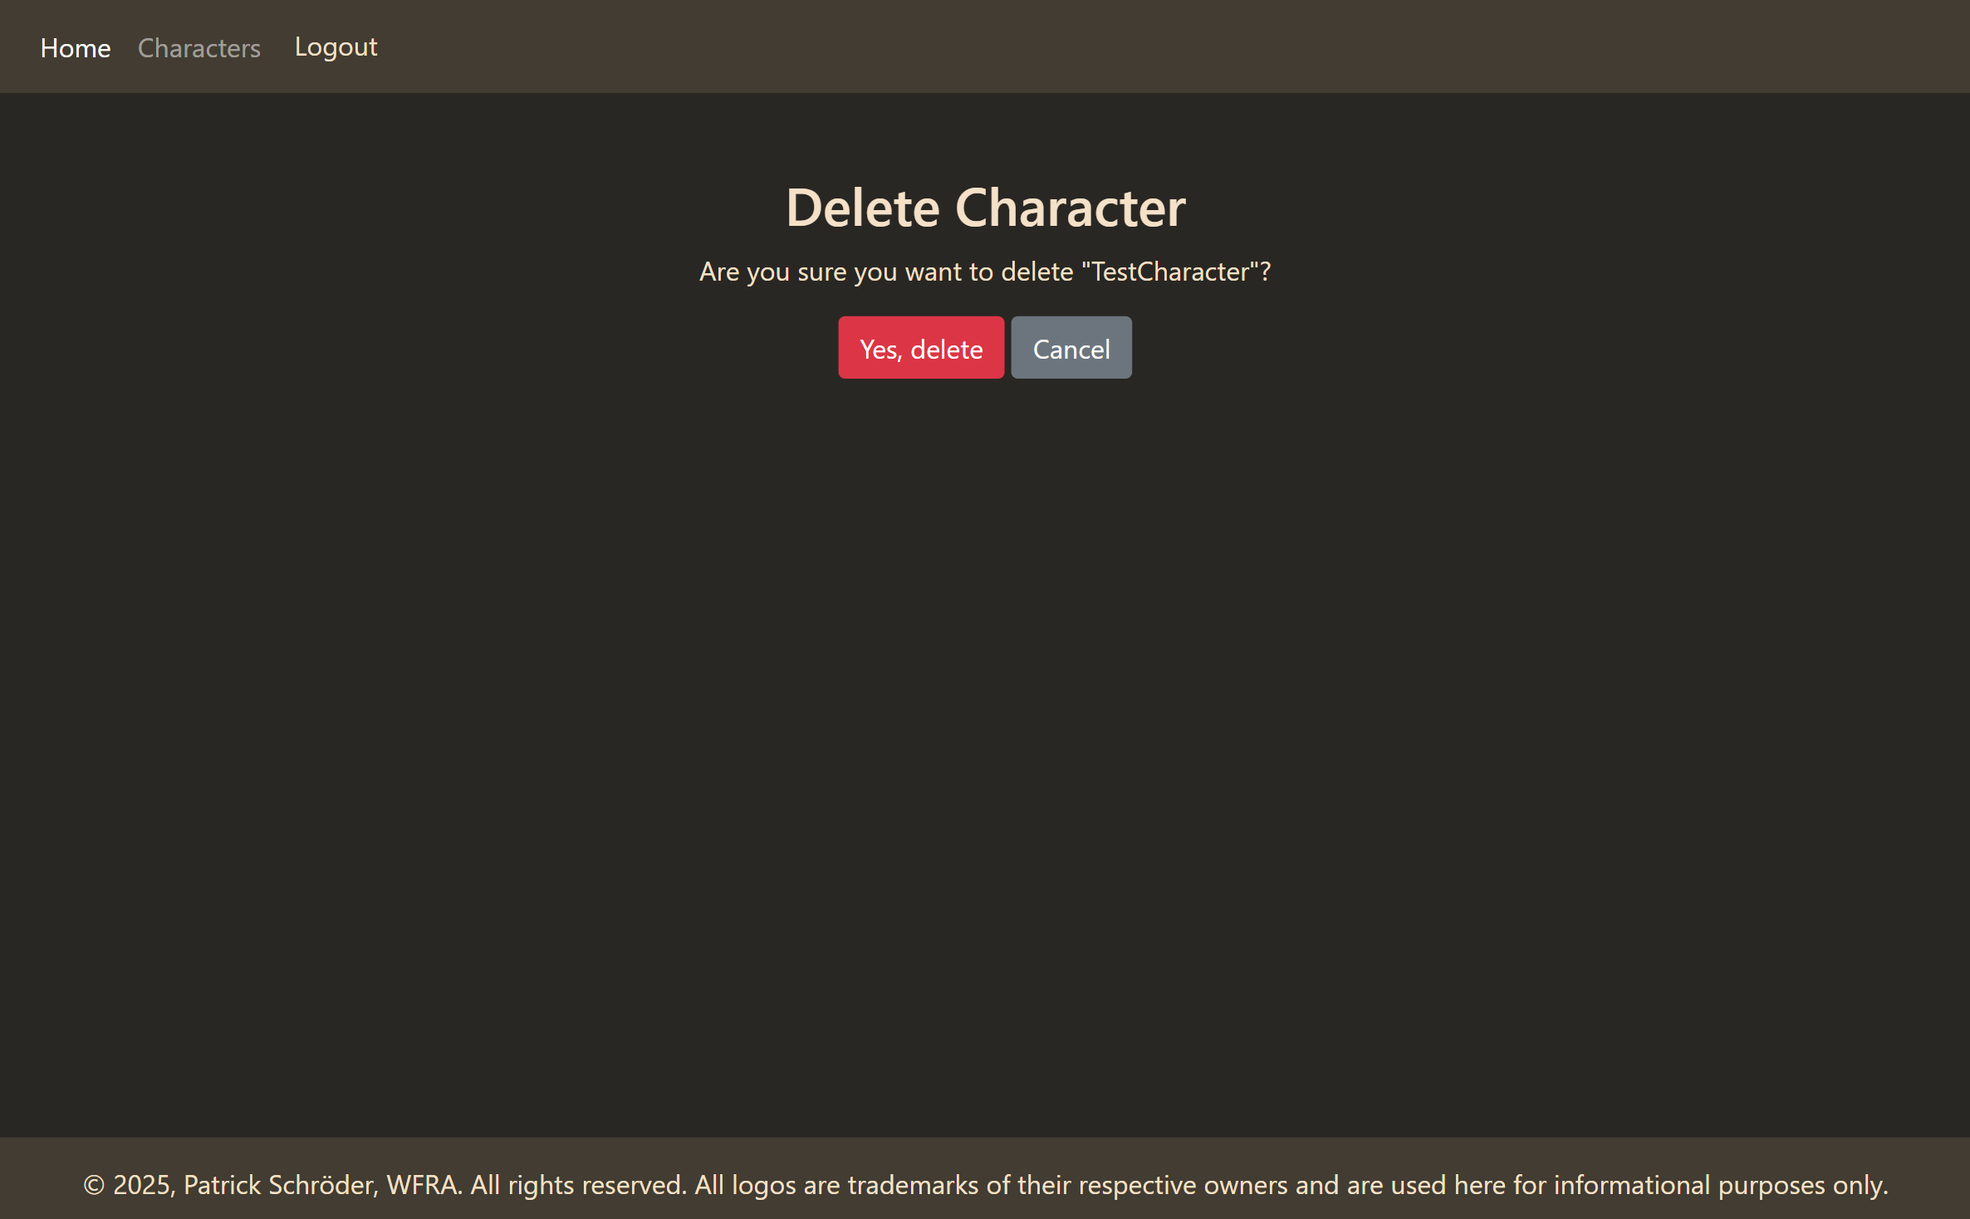
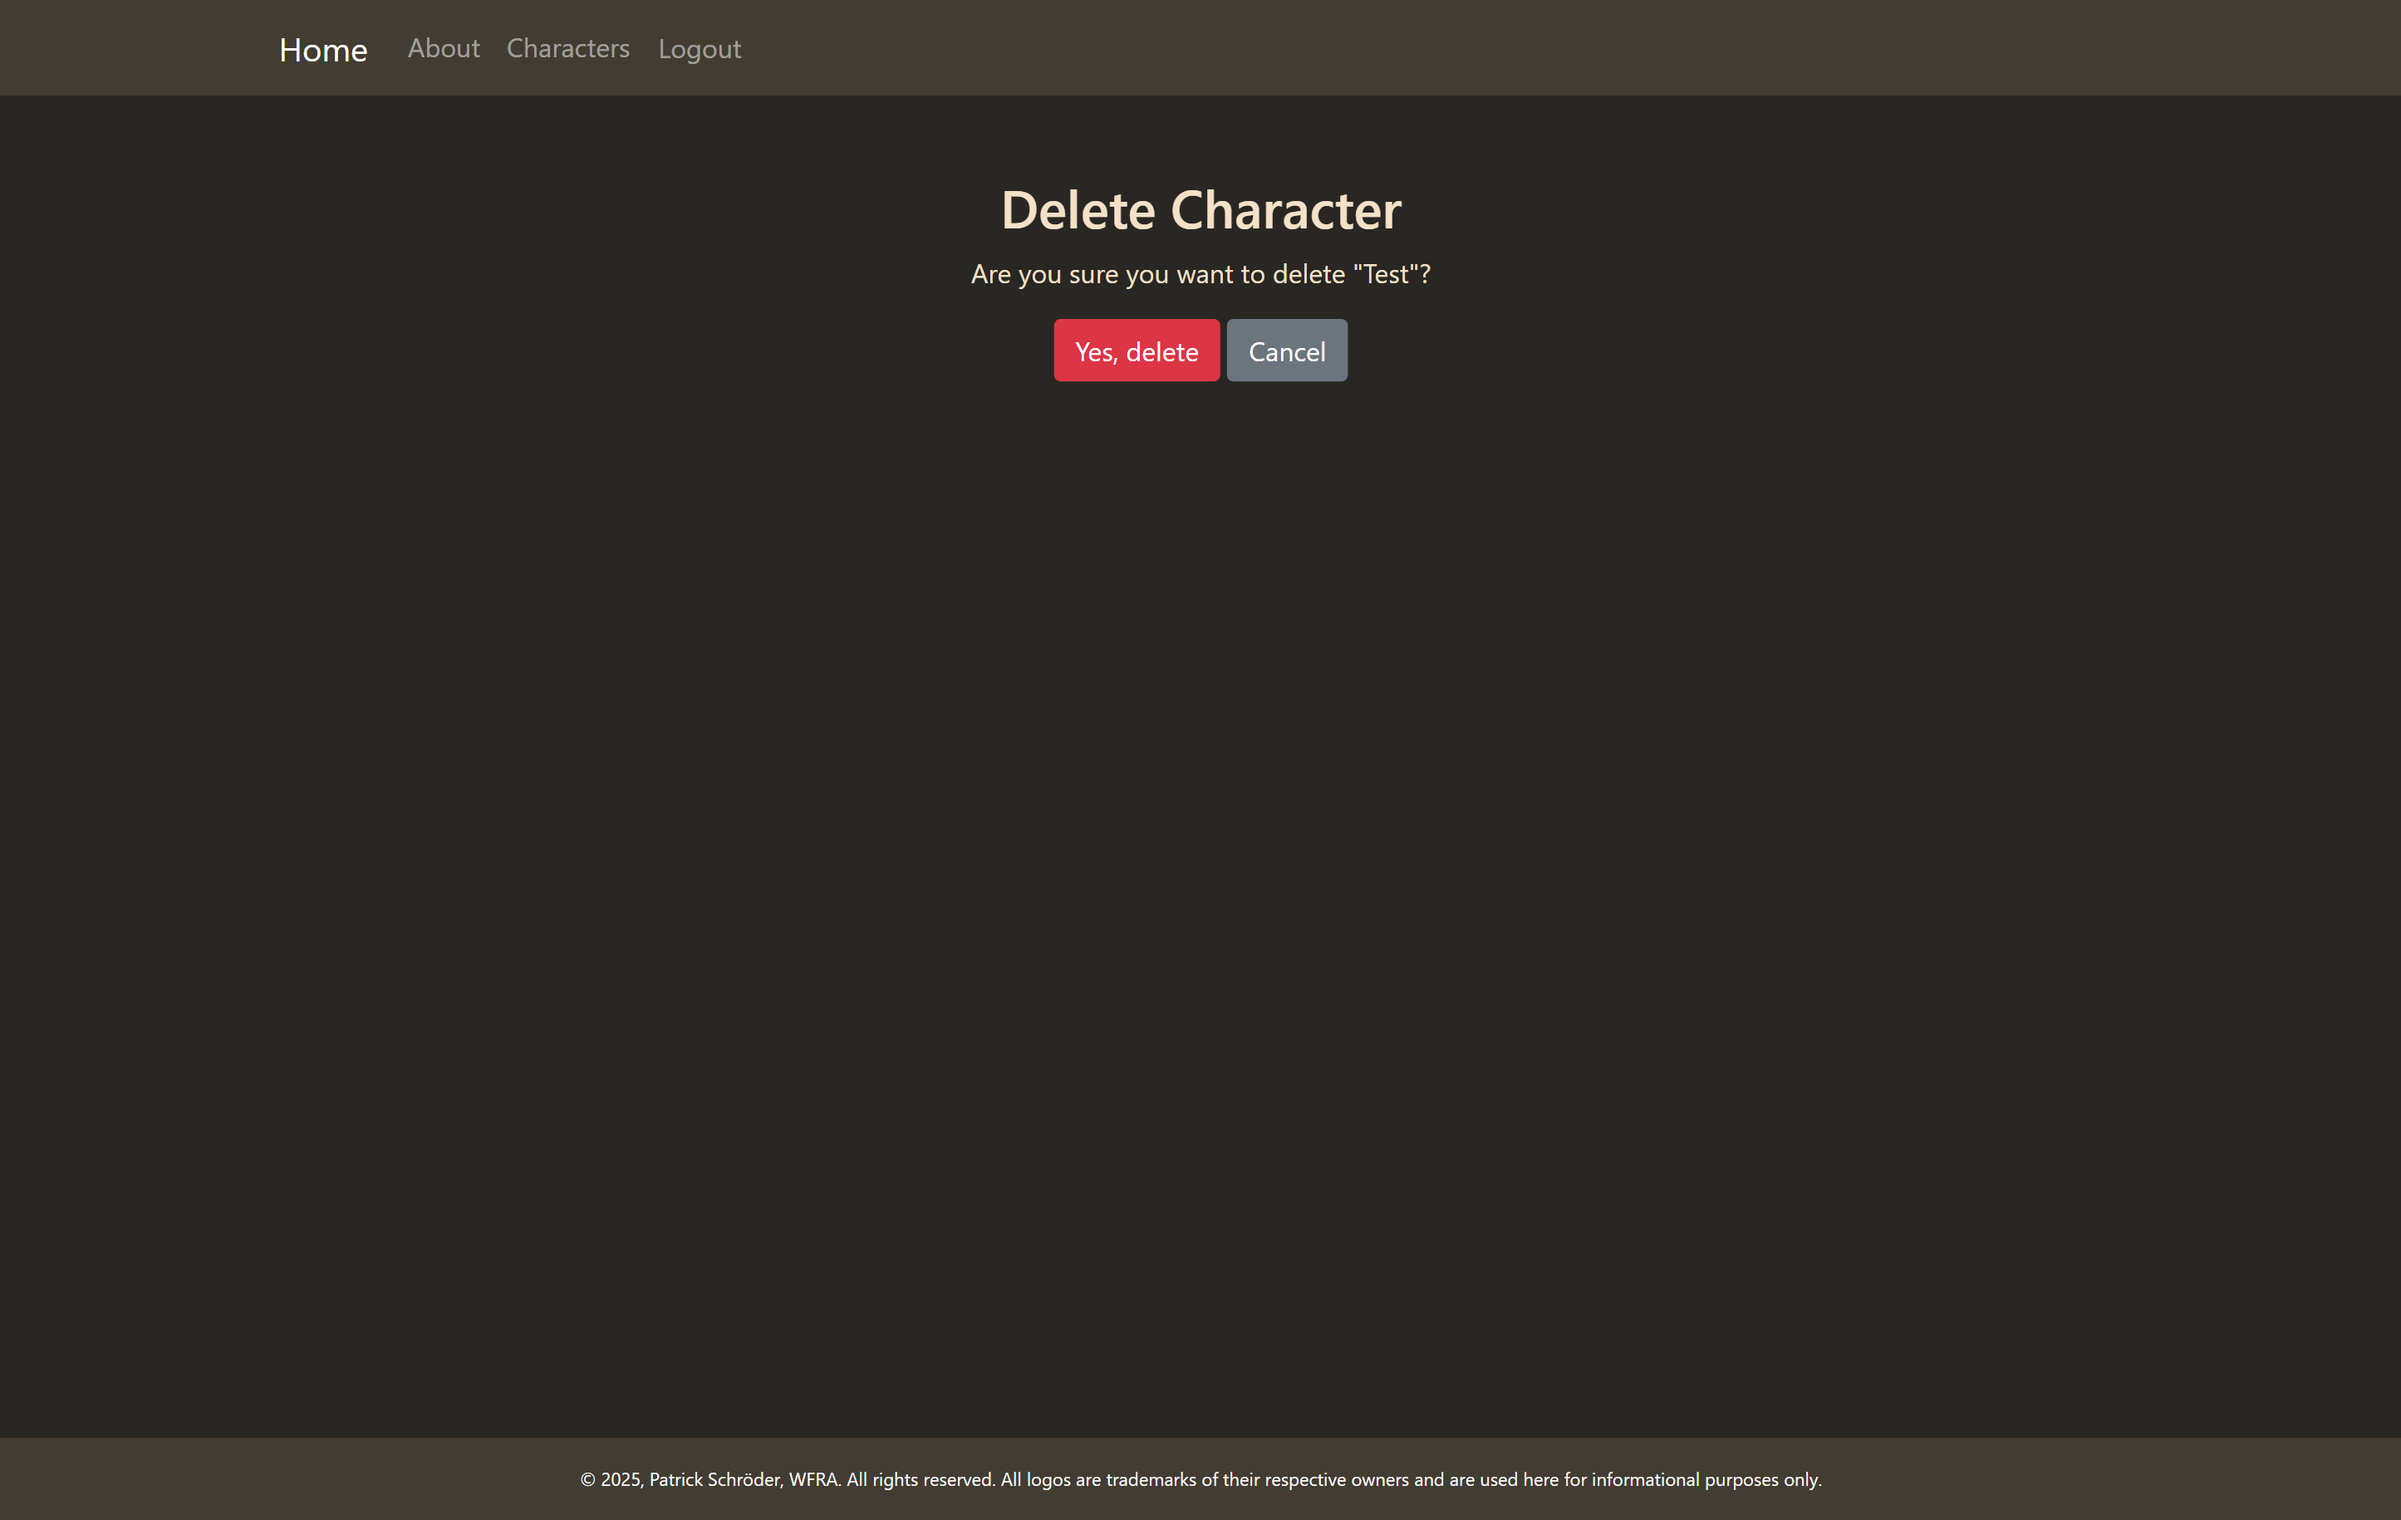
Updated WFRA screenshots, started pictures update
Changed WFRA screenshots to provide up-to-date images, started update of clickable pictures on project pages that allow user to view the picture on standalone page.

Changed region(s): [[0.0, 0.9196, 1.0, 0.9809], [0.3432, 0.1226, 0.6551, 0.3372], [0.0, 0.0307, 1.0, 0.092]]

diff --git a/mcl.html b/mcl.html
@@ -49,51 +49,75 @@
             <h2 data-i18n="gallery">Gallery</h2>
             <div class="image-gallery">
                 <div class="image-item">
-                    <img src="assets/img/mcl_addition.png" alt="Image">
+                    <a href="assets/img/mcl_addition.png">
+                        <img src="assets/img/mcl_addition.png" alt="Image">
+                    </a>
                     <p data-i18n="mcl-gallery-img1-caption">Matrix addition.</p>
                 </div>
                 <div class="image-item">
-                    <img src="assets/img/mcl_subtraction.png" alt="Image">
+                    <a href="assets/img/mcl_subtraction.png">
+                        <img src="assets/img/mcl_subtraction.png" alt="Image">
+                    </a>
                     <p data-i18n="mcl-gallery-img2-caption">Matrix subtraction.</p>
                 </div>
                 <div class="image-item">
-                    <img src="assets/img/mcl_scalar_multiplication.png" alt="Image">
+                    <a href="assets/img/mcl_scalar_multiplication.png">
+                        <img src="assets/img/mcl_scalar_multiplication.png" alt="Image">
+                    </a>
                     <p data-i18n="mcl-gallery-img3-caption">Matrix multiplication by scalar.</p>
                 </div>
                 <div class="image-item">
-                    <img src="assets/img/mcl_transposition.png" alt="Image">
+                    <a href="assets/img/mcl_transposition.png">
+                        <img src="assets/img/mcl_transposition.png" alt="Image">
+                    </a>
                     <p data-i18n="mcl-gallery-img4-caption">Matrix transposition.</p>
                 </div>
                 <div class="image-item">
-                    <img src="assets/img/mcl_matrix_multiplication.png" alt="Image">
+                    <a href="assets/img/mcl_matrix_multiplication.png">
+                        <img src="assets/img/mcl_matrix_multiplication.png" alt="Image">
+                    </a>
                     <p data-i18n="mcl-gallery-img5-caption">Matrix multiplication.</p>
                 </div>
                 <div class="image-item">
-                    <img src="assets/img/mcl_load_from_file.png" alt="Image">
+                    <a href="assets/img/mcl_load_from_file.png">
+                        <img src="assets/img/mcl_load_from_file.png" alt="Image">
+                    </a>
                     <p data-i18n="mcl-gallery-img7-caption">Program can load matrix from file.</p>
                 </div>
                 <div class="image-item">
-                    <img src="assets/img/mcl_minor_matrix.png" alt="Image">
+                    <a href="assets/img/mcl_minor_matrix.png">
+                        <img src="assets/img/mcl_minor_matrix.png" alt="Image">
+                    </a>
                     <p data-i18n="mcl-gallery-img8-caption">Cutting a minor matrix.</p>
                 </div>
                 <div class="image-item">
-                    <img src="assets/img/mcl_determinant.png" alt="Image">
+                    <a href="assets/img/mcl_determinant.png">
+                        <img src="assets/img/mcl_determinant.png" alt="Image">
+                    </a>
                     <p data-i18n="mcl-gallery-img9-caption">Calculating a determinant of matrix.</p>
                 </div>
                 <div class="image-item">
-                    <img src="assets/img/mcl_saved_matrix.png" alt="Image">
+                    <a href="assets/img/mcl_saved_matrix.png">
+                        <img src="assets/img/mcl_saved_matrix.png" alt="Image">
+                    </a>
                     <p data-i18n="mcl-gallery-img10-caption">Program can save matrix to file.</p>
                 </div>
                 <div class="image-item">
-                    <img src="assets/img/mcl_sizes.png" alt="Image">
+                    <a href="assets/img/mcl_sizes.png">
+                        <img src="assets/img/mcl_sizes.png" alt="Image">
+                    </a>
                     <p data-i18n="mcl-gallery-img11-caption">Getting sizes of matrix.</p>
                 </div>
                 <div class="image-item">
-                    <img src="assets/img/mcl_inverting.png" alt="Image">
+                    <a href="assets/img/mcl_inverting.png">
+                        <img src="assets/img/mcl_inverting.png" alt="Image">
+                    </a>
                     <p data-i18n="mcl-gallery-img12-caption">Calculating an inverted matrix.</p>
                 </div>
                 <div class="image-item">
-                    <img src="assets/img/mcl_scope.png" alt="Image">
+                    <a href="assets/img/mcl_scope.png">
+                        <img src="assets/img/mcl_scope.png" alt="Image">
+                    </a>
                     <p data-i18n="mcl-gallery-img6-caption">Project scope.</p>
                 </div>  
             </div>

diff --git a/wfra.html b/wfra.html
@@ -49,35 +49,51 @@
             <h2 data-i18n="gallery">Gallery</h2>
             <div class="image-gallery">
                 <div class="image-item">
-                    <img src="assets/img/wfra_mainpage.png" alt="Image">
+                    <a href="assets/img/wfra_mainpage.png">
+                        <img src="assets/img/wfra_mainpage.png" alt="Image">
+                    </a>
                     <p data-i18n="wfra-gallery-img1-caption">Main page.</p>
                 </div>
                 <div class="image-item">
-                    <img src="assets/img/wfra_login.png" alt="Image">
+                    <a href="assets/img/wfra_login.png">
+                        <img src="assets/img/wfra_login.png" alt="Image">
+                    </a>
                     <p data-i18n="wfra-gallery-img2-caption">Login page.</p>
                 </div>
                 <div class="image-item">
-                    <img src="assets/img/wfra_signup.png" alt="Image">
+                    <a href="assets/img/wfra_signup.png">
+                        <img src="assets/img/wfra_signup.png" alt="Image">
+                    </a>
                     <p data-i18n="wfra-gallery-img3-caption">Sign-up page.</p>
                 </div>
                 <div class="image-item">
-                    <img src="assets/img/wfra_list_empty.png" alt="Image">
+                    <a href="assets/img/wfra_list_empty.png">
+                        <img src="assets/img/wfra_list_empty.png" alt="Image">
+                    </a>
                     <p data-i18n="wfra-gallery-img4-caption">Empty character list.</p>
                 </div>
                 <div class="image-item">
-                    <img src="assets/img/wfra_list.png" alt="Image">
+                    <a href="assets/img/wfra_list.png">
+                        <img src="assets/img/wfra_list.png" alt="Image">
+                    </a>
                     <p data-i18n="wfra-gallery-img5-caption">Character list.</p>
                 </div>
                 <div class="image-item">
-                    <img src="assets/img/wfra_details.png" alt="Image">
+                    <a href="assets/img/wfra_details.png">
+                        <img src="assets/img/wfra_details.png" alt="Image">
+                    </a>
                     <p data-i18n="wfra-gallery-img6-caption">Details of a test character.</p>
                 </div>
                 <div class="image-item">
-                    <img src="assets/img/wfra_update.png" alt="Image">
+                    <a href="assets/img/wfra_update.png">
+                        <img src="assets/img/wfra_update.png" alt="Image">
+                    </a>
                     <p data-i18n="wfra-gallery-img7-caption">Update page of a test character.</p>
                 </div>
                 <div class="image-item">
-                    <img src="assets/img/wfra_delete.png" alt="Image">
+                    <a href="assets/img/wfra_signup.png">
+                        <img src="assets/img/wfra_delete.png" alt="Image">
+                    </a>
                     <p data-i18n="wfra-gallery-img8-caption">Character deletion confirmation screen.</p>
                 </div>
             </div>

diff --git a/sdw.html b/sdw.html
@@ -50,27 +50,39 @@
             <h2 data-i18n="gallery">Gallery</h2>
             <div class="image-gallery">
                 <div class="image-item">
-                    <img src="assets/img/sdw_main_page.png" alt="Image">
+                    <a href="assets/img/sdw_main_page.png">
+                        <img src="assets/img/sdw_main_page.png" alt="Image">
+                    </a>
                     <p data-i18n="sdw-gallery-img1-caption">Main page of website.</p>
                 </div>
                 <div class="image-item">
-                    <img src="assets/img/sdw_project_main_page.png" alt="Image">
+                    <a href="assets/img/sdw_project_main_page.png">
+                        <img src="assets/img/sdw_project_main_page.png" alt="Image">
+                    </a>
                     <p data-i18n="sdw-gallery-img2-caption">Main page of RK and FRK Comparison project.</p>
                 </div>     
                 <div class="image-item">
-                    <img src="assets/img/sdw_scope.png" alt="Image">
+                    <a href="assets/img/sdw_scope.png">
+                        <img src="assets/img/sdw_scope.png" alt="Image">
+                    </a>
                     <p data-i18n="sdw-gallery-img3-caption">Project scope of RK and FRK Comparison.</p>
                 </div>
                 <div class="image-item">
-                    <img src="assets/img/sdw_requirements_page.png" alt="Image">
+                    <a href="assets/img/sdw_requirements_page.png">
+                        <img src="assets/img/sdw_requirements_page.png" alt="Image">
+                    </a>
                     <p data-i18n="sdw-gallery-img4-caption">Requirements of RK and FRK Comparison.</p>
                 </div>     
                 <div class="image-item">
-                    <img src="assets/img/sdw_sphinx_page.png" alt="Image">
+                    <a href="assets/img/sdw_sphinx_page.png">
+                        <img src="assets/img/sdw_sphinx_page.png" alt="Image">
+                    </a>
                     <p data-i18n="sdw-gallery-img5-caption">Code documentation main page generated by Sphinx.</p>
                 </div>
                 <div class="image-item">
-                    <img src="assets/img/sdw_portfolio_scope.png" alt="Image">
+                    <a href="assets/img/sdw_portfolio_scope.png">
+                        <img src="assets/img/sdw_portfolio_scope.png" alt="Image">
+                    </a>
                     <p data-i18n="sdw-gallery-img6-caption">Project scope of the Portfolio Website.</p>
                 </div>     
             </div>
